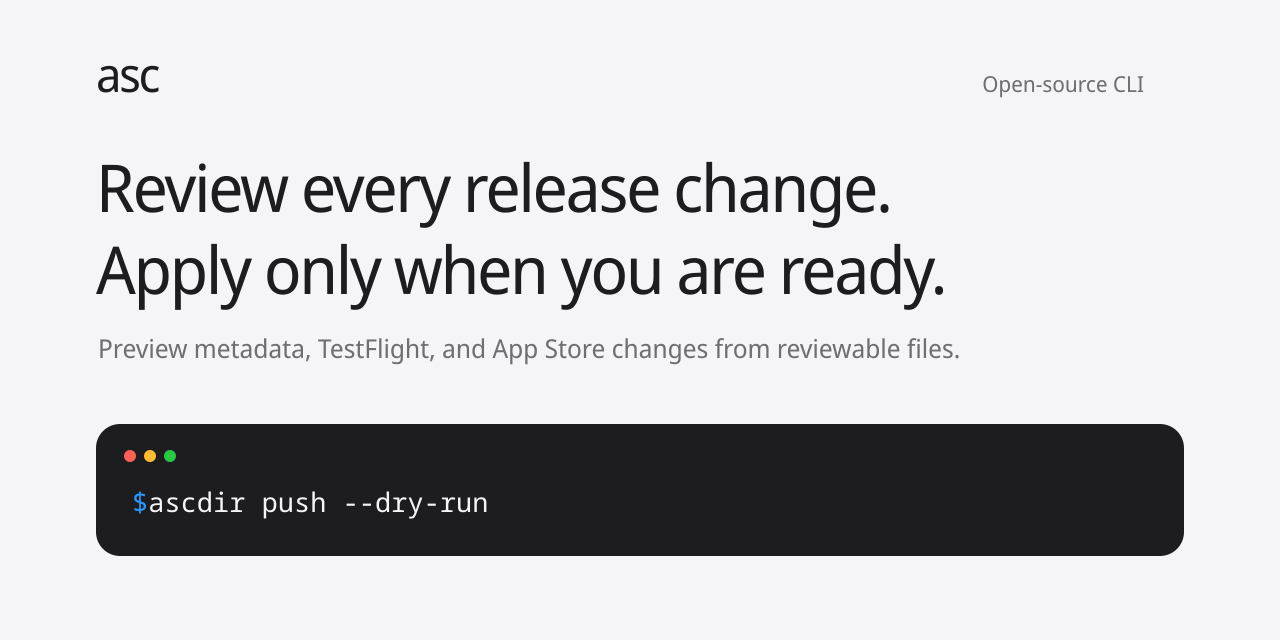
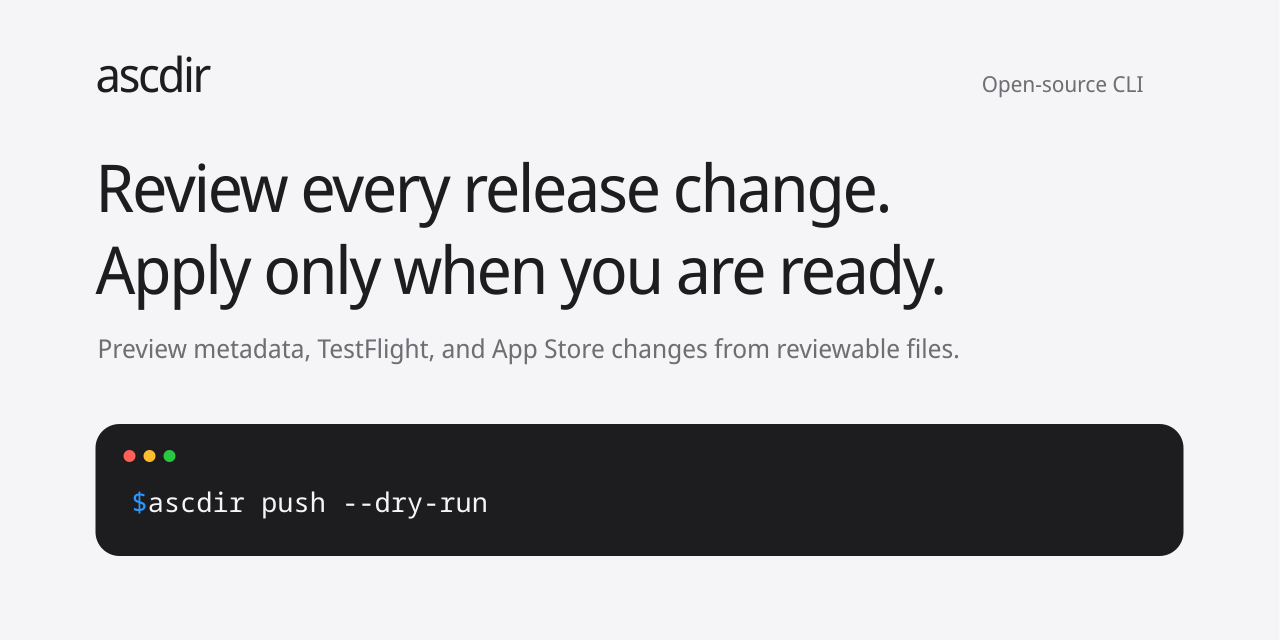
fix: adopt distinct ascdir branding

diff --git a/website/src/components/brand.tsx b/website/src/components/brand.tsx
@@ -4,7 +4,7 @@ export function Brand() {
   return (
     <Link className="brand" href="/" aria-label="ascdir home">
       <span className="brandWordmark" aria-hidden="true">
-        asc
+        ascdir
       </span>
     </Link>
   );
